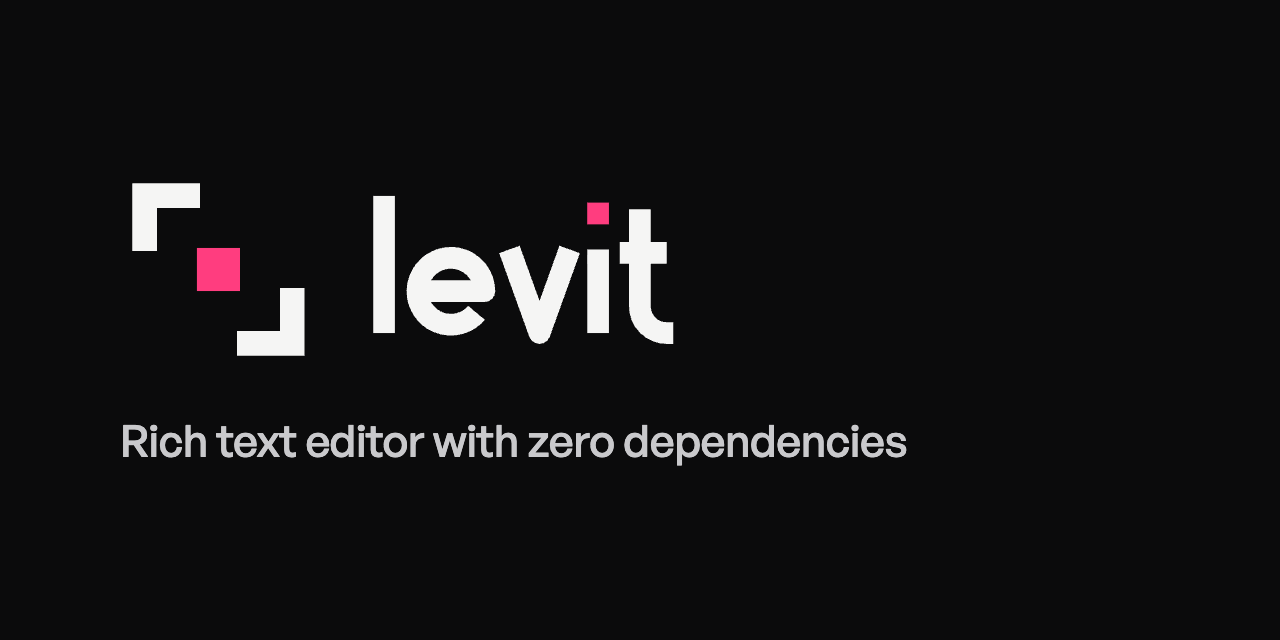
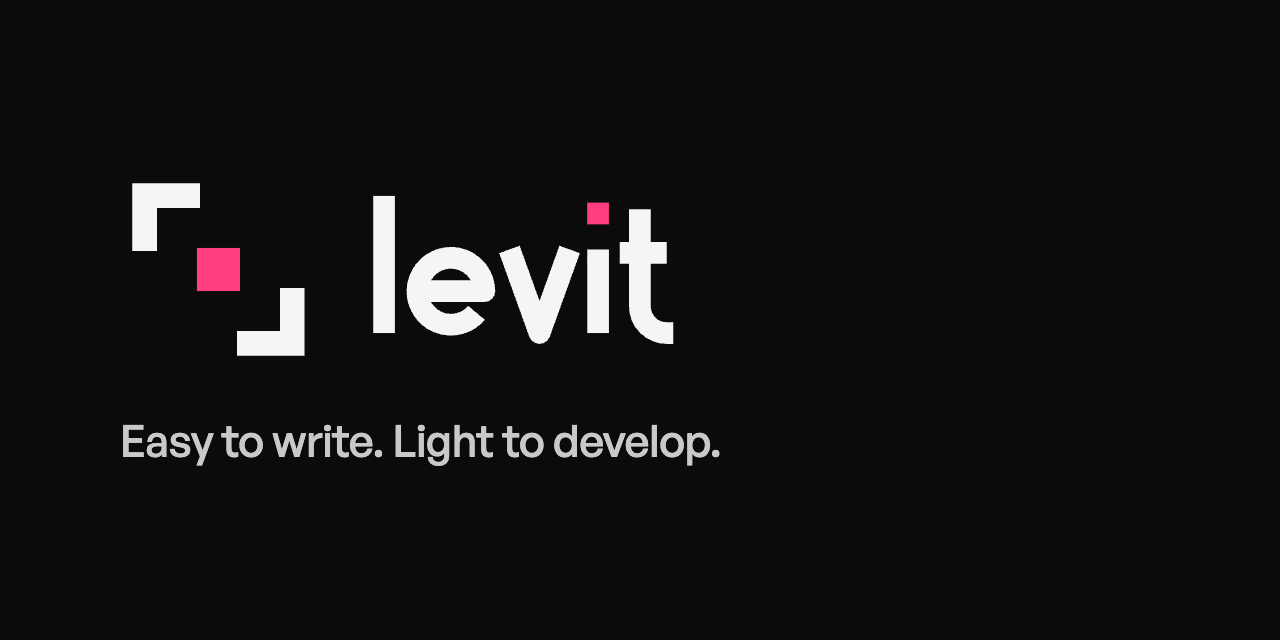
Fix issues found in review of the site headline
- Say what the core does, not more: it brings no other packages along.
  "The only thing you install" and "no version clashes" are gone, since
  collaboration also needs yjs, installed by you; the Yjs binding line
  says so.
- The link preview image says the new headline, and a test keeps it and
  the web manifest in step with the English headline.
- The Japanese page title echoes its headline.
- Tests compare the h1 text exactly, check that the dependency count
  stays in the description, and read the README headline from the site
  strings.

Changed region(s): [[0.0938, 0.6562, 0.7188, 0.7188]]

diff --git a/site/lib/strings.ts b/site/lib/strings.ts
@@ -24,7 +24,7 @@ const en = {
   },
   hero: {
     title: 'Easy to write. Light to develop.',
-    lead: 'A web editor with a slash menu, Markdown, AI suggestions, comments and live collaboration. The core is 30 kB and installs nothing else. Try every part of it right here.',
+    lead: 'A web editor with a slash menu, Markdown, AI suggestions, comments and live collaboration. The core is 30 kB and brings no other packages with it. Try every part of it right here.',
     copy: 'Copy',
     copied: 'Copied',
     copyLabel: 'Copy the install command',
@@ -70,7 +70,7 @@ const en = {
       tested: 'Tested on every change',
     },
     items: [
-      { sentence: 'Levit is the only thing you install.', detail: '0 runtime dependencies: no other packages to trust, no version clashes · core 30 kB gzip · AI 7.5 kB · Yjs binding 5 kB' },
+      { sentence: 'The core brings nothing along.', detail: '0 runtime dependencies: no other packages to trust · core 30 kB gzip · AI 7.5 kB · Yjs binding 5 kB, used with yjs you install' },
       { sentence: 'Long documents stay quick.', detail: '20,000 blocks · about 5 ms of script per key, near a plain contenteditable' },
       { sentence: 'Menus speak three languages.', detail: 'English, Korean and Japanese built in · screen-reader labels · Alt+F10 to the toolbar' },
       { sentence: 'Pasted HTML is cleaned up.', detail: 'Scripts, event handlers and javascript: links are dropped · validateDocument() for the server' },
@@ -156,7 +156,7 @@ const ko: SiteStrings = {
   },
   hero: {
     title: '쓰기는 편하게, 개발은 가볍게',
-    lead: '슬래시 메뉴, Markdown, AI 제안, 댓글, 실시간 공동 편집을 갖춘 웹 에디터입니다. 본체는 30 kB이고 함께 설치되는 패키지가 없습니다. 모든 기능을 여기서 바로 써 보세요.',
+    lead: '슬래시 메뉴, Markdown, AI 제안, 댓글, 실시간 공동 편집을 갖춘 웹 에디터입니다. 본체는 30 kB이고, 딸려 오는 패키지가 없습니다. 모든 기능을 여기서 바로 써 보세요.',
     copy: '복사',
     copied: '복사됨',
     copyLabel: '설치 명령 복사',
@@ -202,7 +202,7 @@ const ko: SiteStrings = {
       tested: '바뀔 때마다 자동 테스트',
     },
     items: [
-      { sentence: '설치하는 것은 Levit 하나뿐입니다.', detail: '런타임 의존성 0개: 믿어야 할 다른 패키지도, 버전 충돌도 없음 · 본체 30 kB(gzip) · AI 7.5 kB · Yjs 연결 5 kB' },
+      { sentence: '본체에 딸려 오는 것이 없습니다.', detail: '런타임 의존성 0개: 믿어야 할 다른 패키지가 없음 · 본체 30 kB(gzip) · AI 7.5 kB · Yjs 연결 5 kB(yjs는 따로 설치)' },
       { sentence: '긴 문서에서도 빠릅니다.', detail: '블록 2만 개 · 키 입력당 스크립트 약 5 ms, 일반 contenteditable과 비슷' },
       { sentence: '메뉴가 세 언어로 나옵니다.', detail: '영어·한국어·일본어 기본 제공 · 스크린 리더 레이블 · Alt+F10으로 도구 모음' },
       { sentence: '붙여 넣은 HTML은 걸러 냅니다.', detail: '스크립트, 이벤트 핸들러, javascript: 링크 제거 · 서버용 validateDocument()' },
@@ -268,7 +268,7 @@ const ko: SiteStrings = {
 const ja: SiteStrings = {
   langName: '日本語',
   meta: {
-    landingTitle: 'Levit — 書きやすく、開発も軽いリッチテキストエディター',
+    landingTitle: 'Levit — 書き心地がよく、開発は軽いリッチテキストエディター',
     landingDescription:
       'スラッシュメニュー、Markdown、AIの提案、コメント、リアルタイム共同編集を備えたTypeScript製リッチテキストエディター。本体30 kB、ランタイム依存0個。ページ上で試せます。',
     guideTitle: 'エディターの使い方 — Levit',
@@ -286,7 +286,7 @@ const ja: SiteStrings = {
   },
   hero: {
     title: '書くのは心地よく、開発は軽く。',
-    lead: 'スラッシュメニュー、Markdown、AIの提案、コメント、リアルタイム共同編集を備えたWebエディターです。本体は30 kBで、ほかに何もインストールされません。すべてこの場で試せます。',
+    lead: 'スラッシュメニュー、Markdown、AIの提案、コメント、リアルタイム共同編集を備えたWebエディターです。本体は30 kBで、一緒に入ってくるパッケージはありません。すべてこの場で試せます。',
     copy: 'コピー',
     copied: 'コピーしました',
     copyLabel: 'インストールコマンドをコピー',
@@ -332,7 +332,7 @@ const ja: SiteStrings = {
       tested: '変更のたびに自動テスト',
     },
     items: [
-      { sentence: 'インストールするのはLevitだけ。', detail: 'ランタイム依存0個：信頼すべきほかのパッケージもバージョン衝突もなし · 本体30 kB（gzip） · AI 7.5 kB · Yjs連携5 kB' },
+      { sentence: '本体に付いてくるものはありません。', detail: 'ランタイム依存0個：信頼すべきほかのパッケージなし · 本体30 kB（gzip） · AI 7.5 kB · Yjs連携5 kB（yjsは別途インストール）' },
       { sentence: '長い文書でも速いままです。', detail: '2万ブロック · キー入力あたりのスクリプト約5 ms、通常のcontenteditableとほぼ同じ' },
       { sentence: 'メニューは三つの言語で。', detail: '英語・韓国語・日本語を標準搭載 · スクリーンリーダー用ラベル · Alt+F10でツールバーへ' },
       { sentence: '貼り付けたHTMLはきれいに。', detail: 'スクリプト、イベントハンドラー、javascript:リンクを除去 · サーバー用のvalidateDocument()' },

diff --git a/tests/site/pages.test.ts b/tests/site/pages.test.ts
@@ -27,17 +27,33 @@ describe('site pages', () => {
 
   it('the landing page leads with what writing and developing with Levit feel like, in every language', () => {
     const want = {
-      en: { h1: 'Easy to write. Light to develop.', title: 'Levit — rich text editor, easy to write and light to develop' },
-      ko: { h1: '쓰기는 편하게, 개발은 가볍게', title: 'Levit — 쓰기 편하고 개발은 가벼운 리치 텍스트 에디터' },
-      ja: { h1: '書くのは心地よく、開発は軽く。', title: 'Levit — 書きやすく、開発も軽いリッチテキストエディター' },
+      en: { h1: 'Easy to write. Light to develop.', title: 'Levit — rich text editor, easy to write and light to develop', deps: '0 runtime dependencies' },
+      ko: { h1: '쓰기는 편하게, 개발은 가볍게', title: 'Levit — 쓰기 편하고 개발은 가벼운 리치 텍스트 에디터', deps: '런타임 의존성 0개' },
+      ja: { h1: '書くのは心地よく、開発は軽く。', title: 'Levit — 書き心地がよく、開発は軽いリッチテキストエディター', deps: 'ランタイム依存0個' },
     };
     for (const lang of LANGS) {
       const { html } = doc(lang, 'landing');
-      expect(html, lang).toMatch(new RegExp(`<h1[^>]*>${want[lang].h1}</h1>`));
+      expect(/<h1[^>]*>([^<]*)<\/h1>/.exec(html)?.[1], lang).toBe(want[lang].h1);
       expect(html, lang).toContain(`<title>${want[lang].title}</title>`);
-      // The dependency count stays as proof under the headline, not as the headline.
+      // The size and the dependency count stay as proof under the headline.
       expect(strings[lang].hero.lead, lang).toMatch(/30 kB/);
+      expect(strings[lang].meta.landingDescription, lang).toContain(want[lang].deps);
     }
+  });
+
+  it('claims only what the core does: other packages, like yjs for collaboration, are installed by you', () => {
+    for (const lang of LANGS) {
+      const text = JSON.stringify(strings[lang]);
+      for (const overclaim of ['the only thing you install', 'no version clashes', 'installs nothing else', '설치하는 것은 Levit 하나뿐', '버전 충돌도 없음', '함께 설치되는 패키지가 없습니다', 'インストールするのはLevitだけ', 'バージョン衝突もなし']) {
+        expect(text, `${lang}: ${overclaim}`).not.toContain(overclaim);
+      }
+    }
+  });
+
+  it('the link preview image and the web manifest carry the same line as the English headline', () => {
+    const line = strings.en.hero.title;
+    expect(readFileSync(resolve(__dirname, '../../scripts/brand-images.mjs'), 'utf8')).toContain(`>${line}</p>`);
+    expect(JSON.parse(readFileSync(resolve(__dirname, '../../site/public/manifest.webmanifest'), 'utf8')).description).toBe(line);
   });
 
   it.each(PAGES)('$lang $kind: links to the same page in the other languages', ({ lang, kind }) => {

diff --git a/tests/project/docs.test.ts b/tests/project/docs.test.ts
@@ -1,4 +1,5 @@
 import { describe, it, expect } from 'vitest';
+import { strings } from '../../site/lib/strings';
 import { existsSync, readFileSync } from 'node:fs';
 import { resolve } from 'node:path';
 
@@ -330,9 +331,9 @@ describe('the + bars of a table are documented', () => {
 });
 
 describe('the README header', () => {
-  it('leads with the site headline and keeps the numbers as proof', () => {
-    const head = read('README.md').split('\n').slice(0, 16).join('\n');
-    expect(head).toContain('<strong>쓰기는 편하게, 개발은 가볍게</strong>');
+  it('leads with the Korean site headline and keeps the numbers as proof', () => {
+    const head = read('README.md').slice(0, 800);
+    expect(head).toContain(`<strong>${strings.ko.hero.title}</strong>`);
     expect(head).toContain('런타임 의존성 0개');
   });
 });
